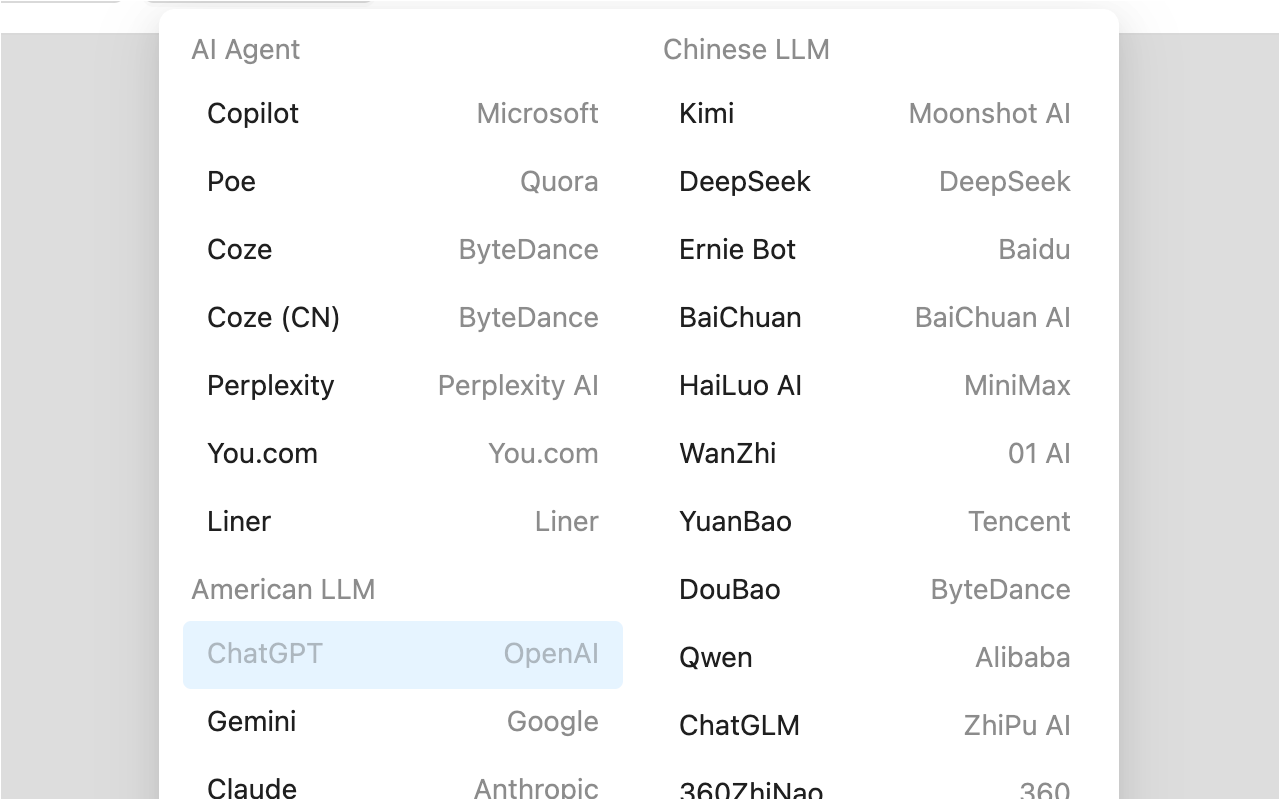
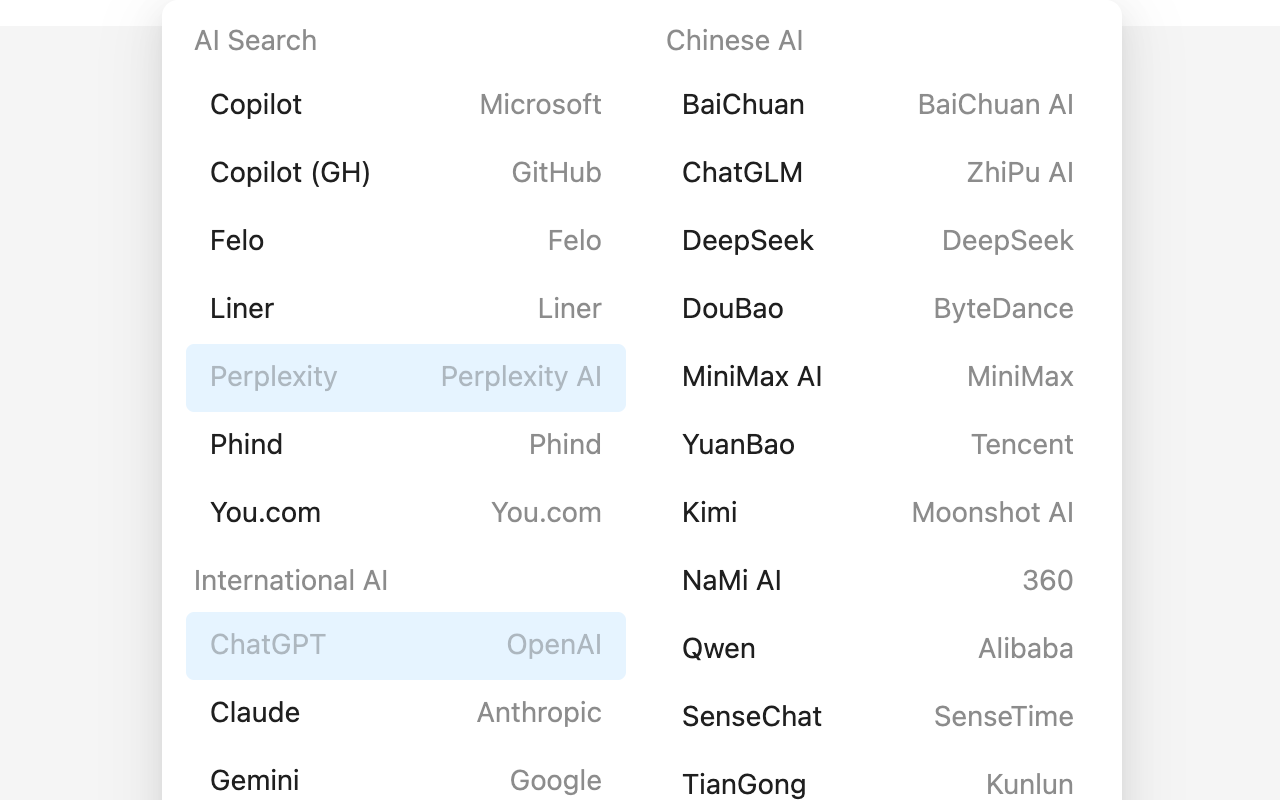
feat: up

diff --git a/README.md b/README.md
@@ -7,7 +7,7 @@
 A browser extension aggregating numerous mainstream AI chat model platforms, supporting synchronous multi-platform chat. 
 
 **Screenshot**
-![Simple Chat Hub](https://raw.githubusercontent.com/jackyr/simple-chat-hub-extension/main/screenshots/screenshot_en.jpg)
+![Simple Chat Hub](https://raw.githubusercontent.com/jackyr/simple-chat-hub-extension/main/screenshots/screenshot_en.png)
 
 **Screenshot**
 ![Simple Chat Hub](https://raw.githubusercontent.com/jackyr/simple-chat-hub-extension/main/screenshots/screenshot2_en.png)
